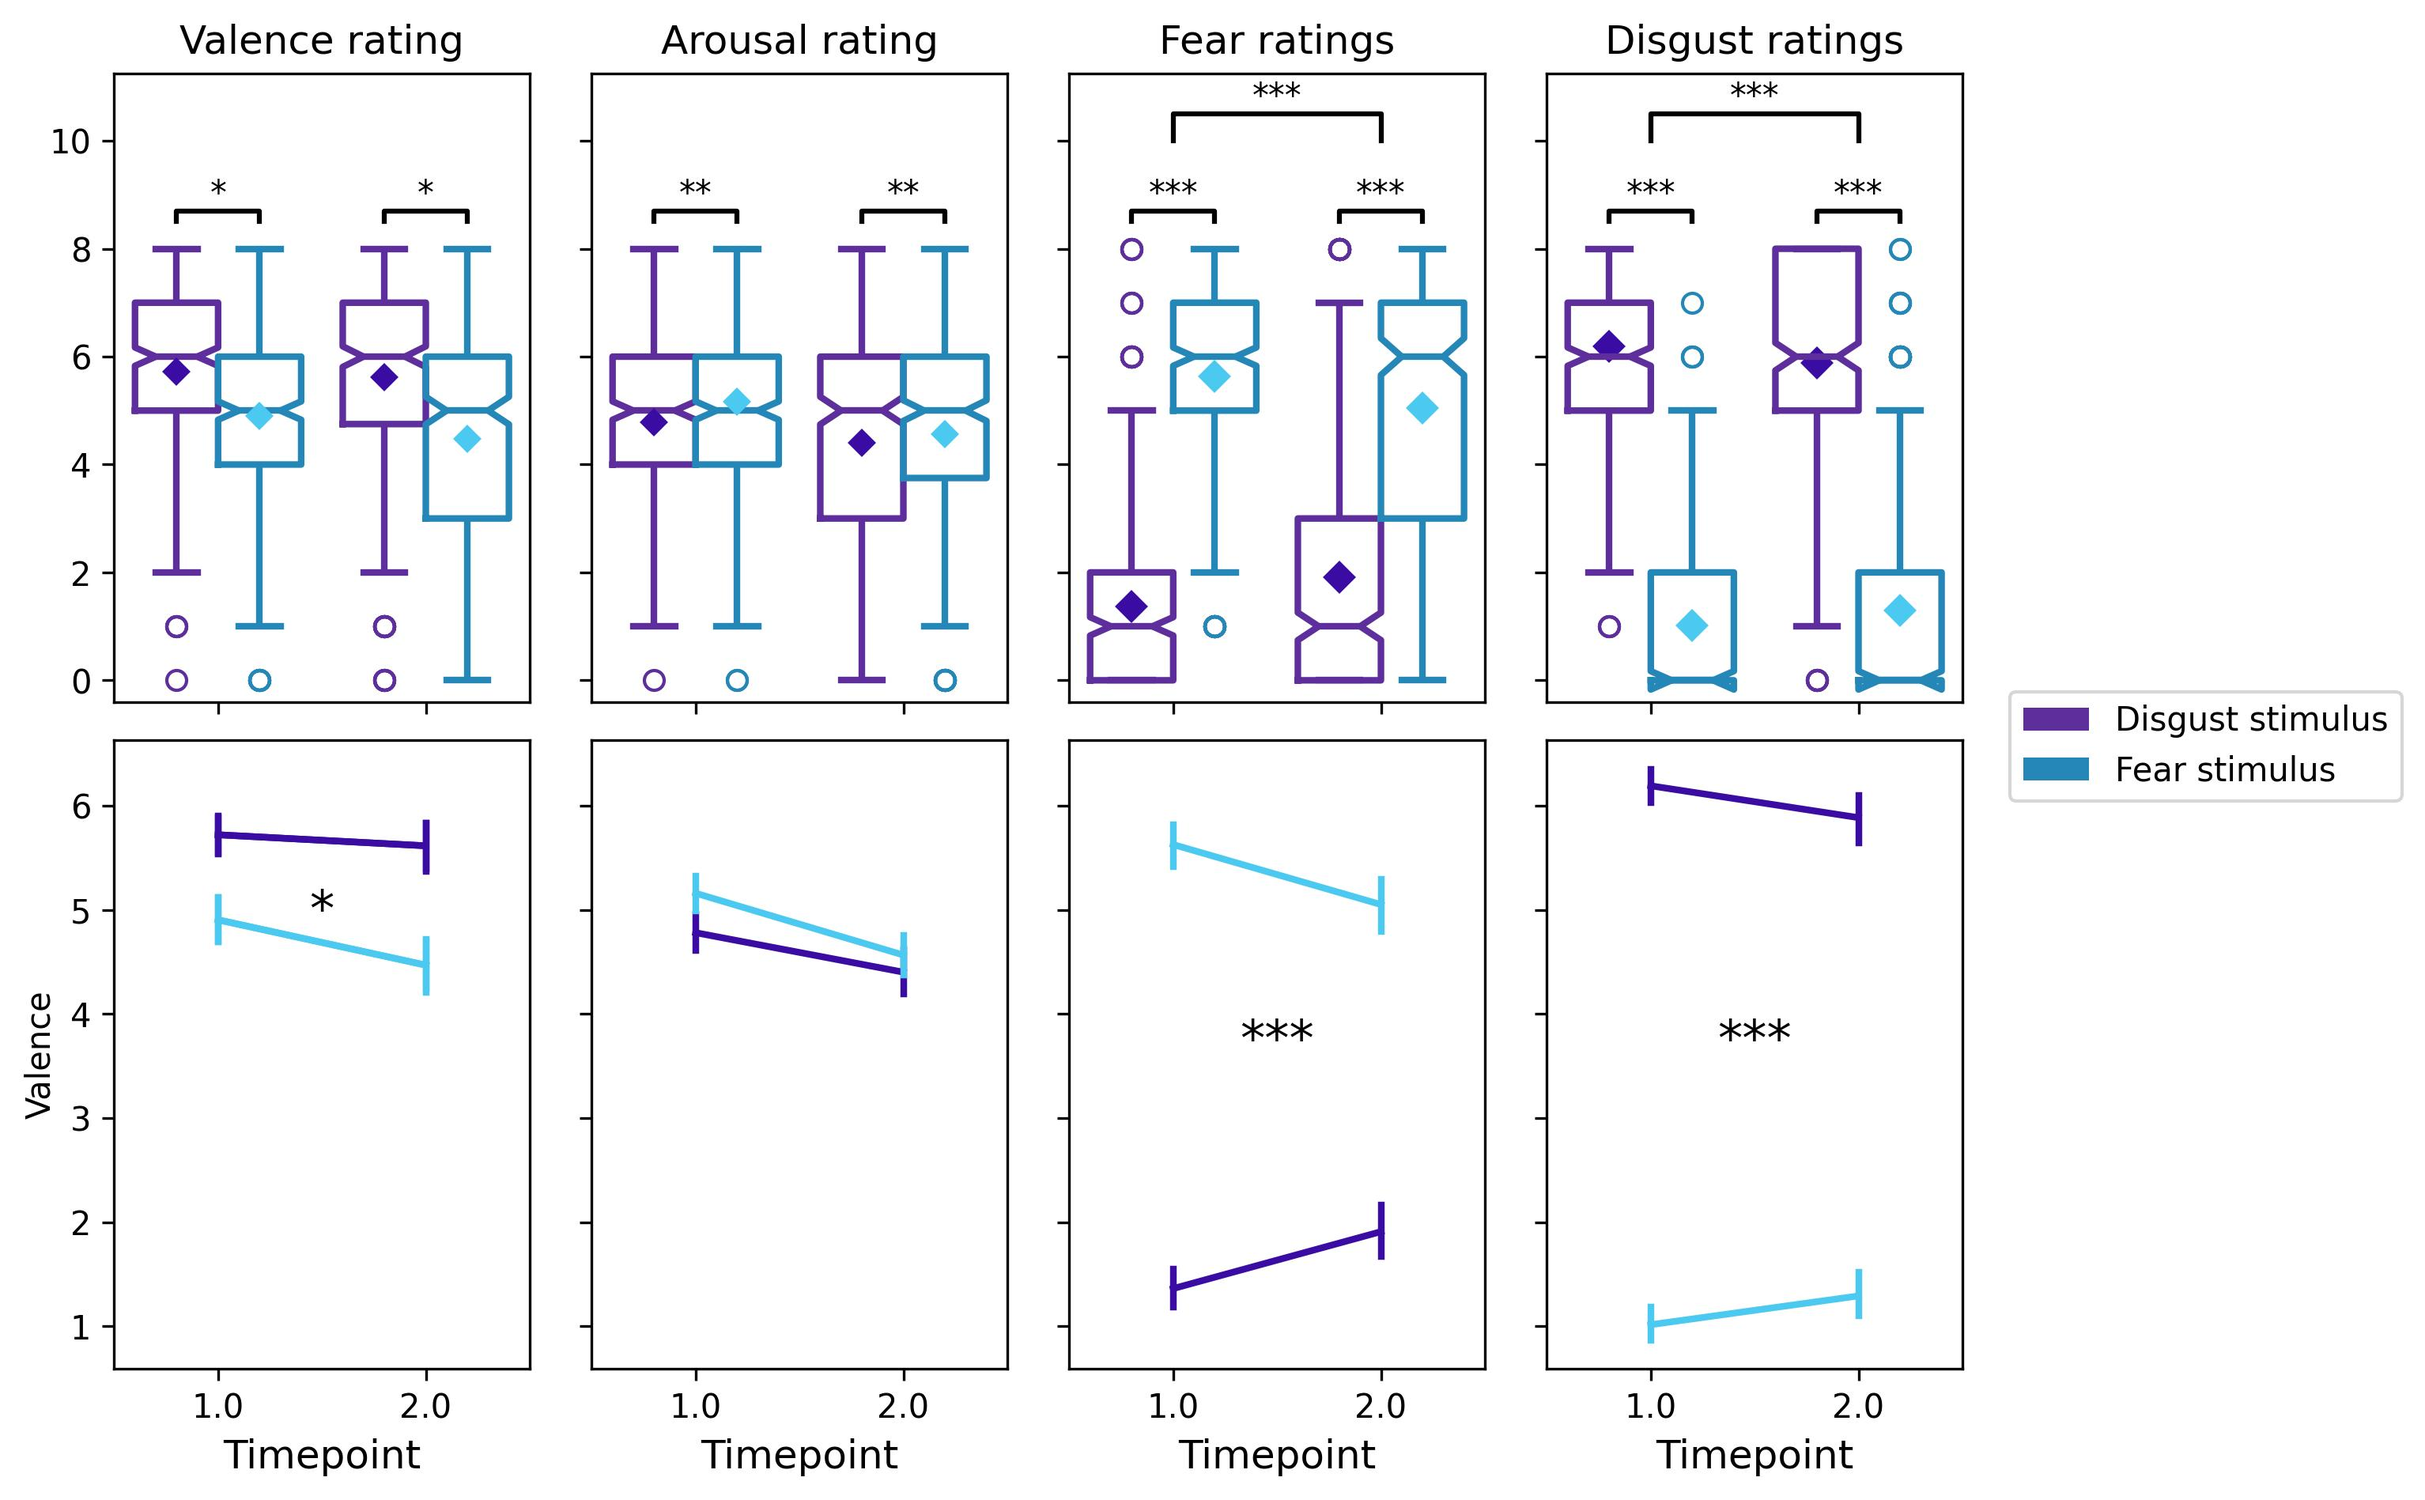
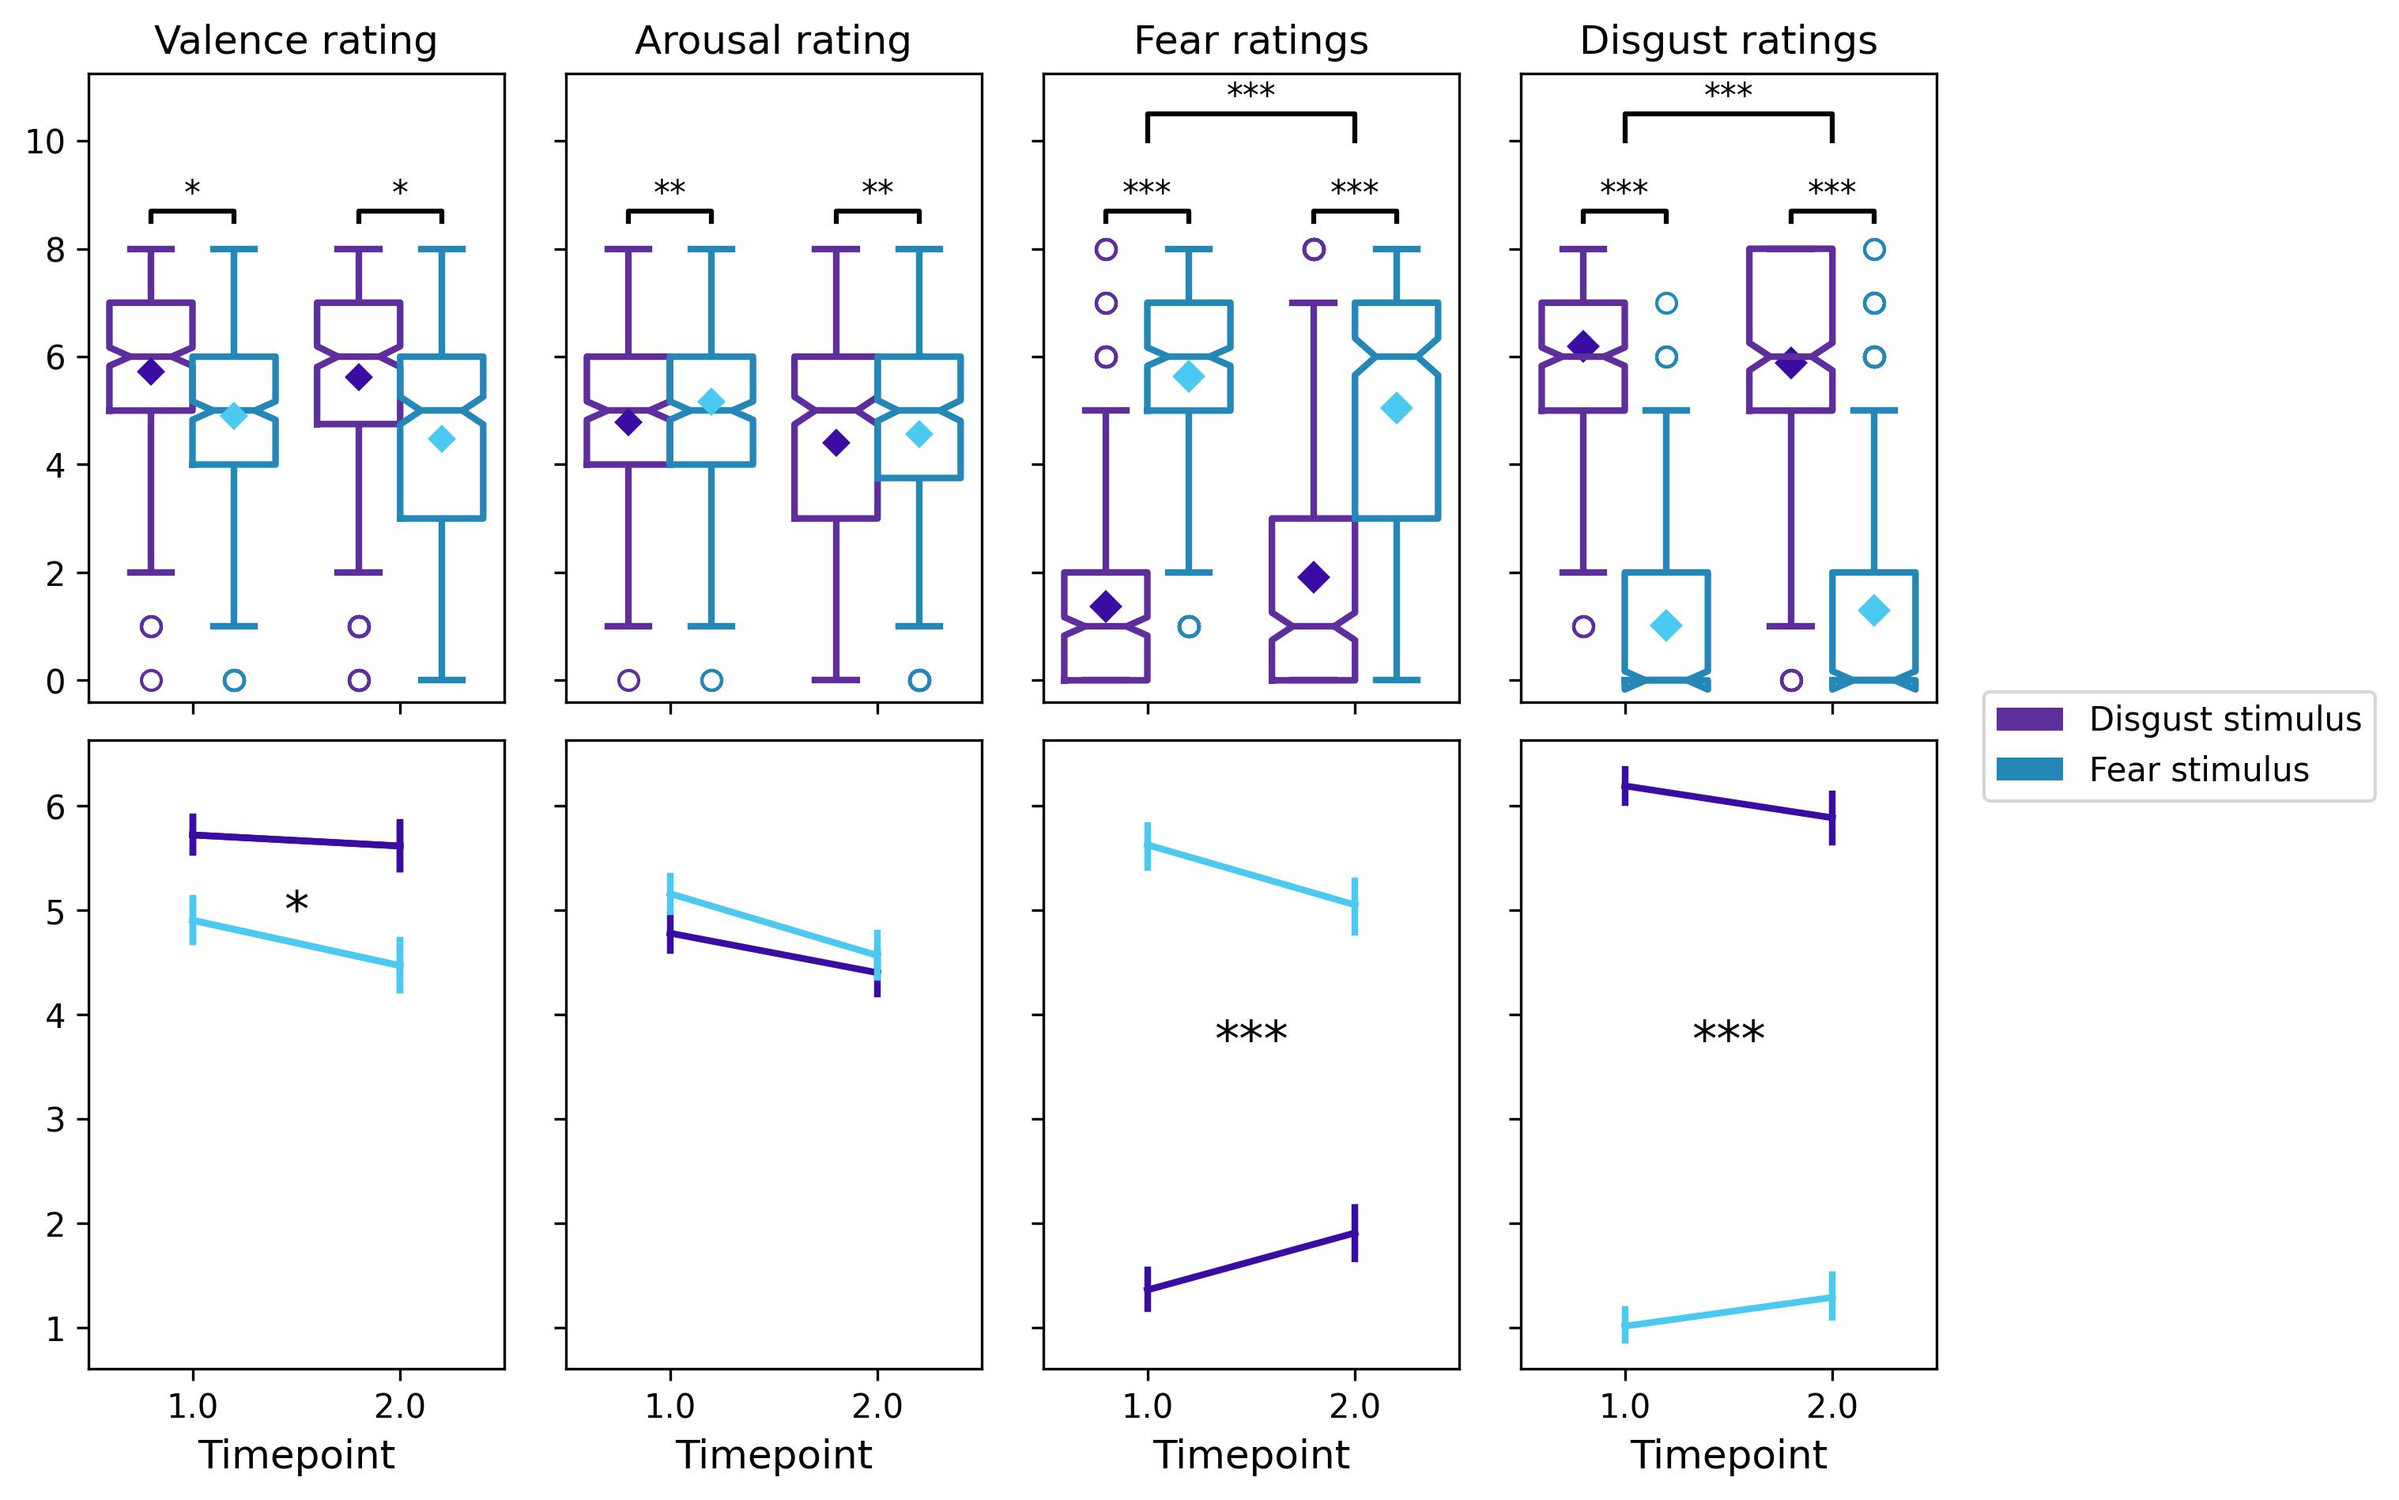
Fix issue with showing plots

diff --git a/Full_results_markdown/dataVisualisation.md b/Full_results_markdown/dataVisualisation.md
@@ -58,11 +58,12 @@ if timepoint_annot != 'NonSig':
 
 sns.pointplot(data=long_chosen_stim_df, ax=axes[1,0], x='Timepoint', y='Valence', hue='trial_type', palette=palette, scale=0.75, marker='')
 axes[1,0].xaxis.get_label().set_fontsize(12)
-axes[1,0].set_ylabel('')
+axes[1,0].yaxis.label.set_visible(False)
 if interaction_annot != 'NonSig': 
     x= 0.5
     y= 4.75
     axes[1,0].text(x, y, interaction_annot, ha='center', va='bottom', color='black', fontsize=15)
+
 
 ###AROUSAL
 trial_type_annot, timepoint_annot, interaction_annot = FD_pVal_annot('Arousal')
@@ -160,7 +161,7 @@ if interaction_annot != 'NonSig':
 for ax in axes.flatten():
     ax.get_legend().set_visible(False)
 plt.figlegend(loc='center left', bbox_to_anchor=(1,0.5),  handles=[mpatches.Patch(facecolor="#5E2E9D"), mpatches.Patch(facecolor="#2487B8")], labels=['Disgust stimulus', 'Fear stimulus'], prop={'size':10})
-plt.savefig('figures/VidRating_FearDisgust.jpeg', dpi=300, bbox_inches='tight')
+#plt.savefig('figures/VidRating_FearDisgust.jpeg', dpi=300, bbox_inches='tight')
 ```
 
 </details>
@@ -295,7 +296,7 @@ axes[1,0].plot([x1, x1, x2, x2], [y, y+h, y+h, y], lw=1.5, c=col)
 axes[1,1].text((x1+x2)*.5, y+h, disgust_annot, ha='center', va='bottom', color=col)
 axes[1,1].plot([x1, x1, x2, x2], [y, y+h, y+h, y], lw=1.5, c=col) 
 
-plt.savefig('figures/VidRating_Points.jpeg', dpi=300, bbox_inches='tight')
+#plt.savefig('figures/VidRating_Points.jpeg', dpi=300, bbox_inches='tight')
 ```
 
 </details>
@@ -496,7 +497,7 @@ if interaction_annot != 'NonSig':
 for ax in axes.flatten():
     ax.get_legend().set_visible(False)
 plt.figlegend(loc='center left', bbox_to_anchor=(1,0.5),  handles=[mpatches.Patch(facecolor="#5E2E9D"), mpatches.Patch(facecolor="#2487B8")], labels=['Disgust stimulus', 'Fear stimulus'], prop={'size':10})
-plt.savefig('figures/Exploratory_VidRating_FearDisgust.jpeg', dpi=300, bbox_inches='tight')
+#plt.savefig('figures/Exploratory_VidRating_FearDisgust.jpeg', dpi=300, bbox_inches='tight')
 ```
 
 </details>
@@ -657,7 +658,7 @@ axes[3].set_yticklabels(range(0, 11,2))
 axes[3].margins(x=0.15)
 
 plt.figlegend(loc='center left', bbox_to_anchor=(1,0.5),  handles=[mpatches.Patch(facecolor="#9B0F47"), mpatches.Patch(facecolor="#5E2E9D"), mpatches.Patch(facecolor="#2487B8")], labels=['Points stimulus', 'Disgust stimulus', 'Fear stimulus'], prop={'size':10})
-plt.savefig('figures/Exploratory_VidRating_Points.jpeg', dpi=300, bbox_inches='tight')
+#plt.savefig('figures/Exploratory_VidRating_Points.jpeg', dpi=300, bbox_inches='tight')
 ```
 
 </details>
@@ -730,7 +731,7 @@ if points_annot != 'NonSig':
     y, h, col = task_summary["mean_regressive_er"].max() + 0.075, 0.05, 'black'  
     axes[1].plot([x1, x1, x2, x2], [y, y+h, y+h, y], lw=1.5, c=col)  
     axes[1].text((x1+x2)*.5, y+h, points_annot, ha='center', va='bottom', color=col) 
-plt.savefig('figures/ReversaLearning_PerseverativeRegressive.jpeg', dpi=300, bbox_inches='tight')
+#plt.savefig('figures/ReversaLearning_PerseverativeRegressive.jpeg', dpi=300, bbox_inches='tight')
 ```
 
 </details>
@@ -802,7 +803,7 @@ if points_annot != 'NonSig':
     axes[1].plot([x1, x1, x2, x2], [y, y+h, y+h, y], lw=1.5, c=col)  
     axes[1].text((x1+x2)*.5, y+h, points_annot, ha='center', va='bottom', color=col, fontsize=15) 
 axes[1].set_ylim(top=y+h+0.05)
-plt.savefig('figures/ReversaLearning_winStayLoseShift.jpeg', dpi=300, bbox_inches='tight')
+#plt.savefig('figures/ReversaLearning_winStayLoseShift.jpeg', dpi=300, bbox_inches='tight')
 ```
 
 </details>
@@ -832,12 +833,14 @@ axes.set_xlabel("")
 axes.set_xticklabels(axes.get_xticklabels(), rotation=0)
 axes.set_ylabel("Percentage correct") 
 axes.set_title("Percentage correct")
-plt.savefig('figures/exploratory_ReversaLearning_PercentageCorrect.jpeg', dpi=300, bbox_inches='tight')
+#plt.savefig('figures/exploratory_ReversaLearning_PercentageCorrect.jpeg', dpi=300, bbox_inches='tight')
 ```
 
 </details>
 
-![](dataVisualisation_files/figure-commonmark/cell-10-output-1.png)
+    Text(0.5, 1.0, 'Percentage correct')
+
+![](dataVisualisation_files/figure-commonmark/cell-10-output-2.png)
 
 <h3>
 
@@ -899,7 +902,7 @@ axes.axvline(lower_bound, color=colorB, linestyle='dashed', linewidth=1.5, label
 axes.axvline(upper_bound, color=colorB, linestyle='dashed', linewidth=1.5, label='Upper Bound')
 axes.set_xlabel('Mean perseverative errors per reversal')
 print("Number of outliers ="+str(len(outliers)))
-plt.savefig('figures/Exploratory_ReversaLearning_PerseverativeOutliers.jpeg', dpi=300, bbox_inches='tight')
+#plt.savefig('figures/Exploratory_ReversaLearning_PerseverativeOutliers.jpeg', dpi=300, bbox_inches='tight')
 ```
 
 </details>
@@ -989,12 +992,14 @@ sns.histplot(data=outliers, x="lose_shift", bins=bins, color=colorA, ax=axes[1,1
 axes[1,1].axvline(lower_bound, color=colorB, linestyle='dashed', linewidth=1.5,  label='Lower Bound')
 axes[1,1].axvline(upper_bound, color=colorB, linestyle='dashed', linewidth=1.5, label='Upper Bound')
 axes[1,1].set_xlabel('Lose-shift')
-plt.savefig('figures/Exploratory_ReversaLearning_PerseverativeOutliers_keyOutcomes.jpeg', dpi=300, bbox_inches='tight')
+#plt.savefig('figures/Exploratory_ReversaLearning_PerseverativeOutliers_keyOutcomes.jpeg', dpi=300, bbox_inches='tight')
 ```
 
 </details>
 
-![](dataVisualisation_files/figure-commonmark/cell-13-output-1.png)
+    Text(0.5, 77.16666666666664, 'Lose-shift')
+
+![](dataVisualisation_files/figure-commonmark/cell-13-output-2.png)
 
 <p>
 
@@ -1077,9 +1082,11 @@ axes[1,1].axvline(lower_bound, color=colorB, linestyle='dashed', linewidth=1.5, 
 axes[1,1].axvline(upper_bound, color=colorB, linestyle='dashed', linewidth=1.5,label='Upper Bound')
 axes[1,1].set_xlabel('Valence and arousal for points', fontsize=8)
 #axes[1,1].set_xlabel('')
-plt.savefig('figures/Exploratory_ReversaLearning_PerseverativeOutliers_vidRatings.jpeg', dpi=300, bbox_inches='tight')
+#plt.savefig('figures/Exploratory_ReversaLearning_PerseverativeOutliers_vidRatings.jpeg', dpi=300, bbox_inches='tight')
 ```
 
 </details>
 
-![](dataVisualisation_files/figure-commonmark/cell-14-output-1.png)
+    Text(0.5, 77.16666666666664, 'Valence and arousal for points')
+
+![](dataVisualisation_files/figure-commonmark/cell-14-output-2.png)
